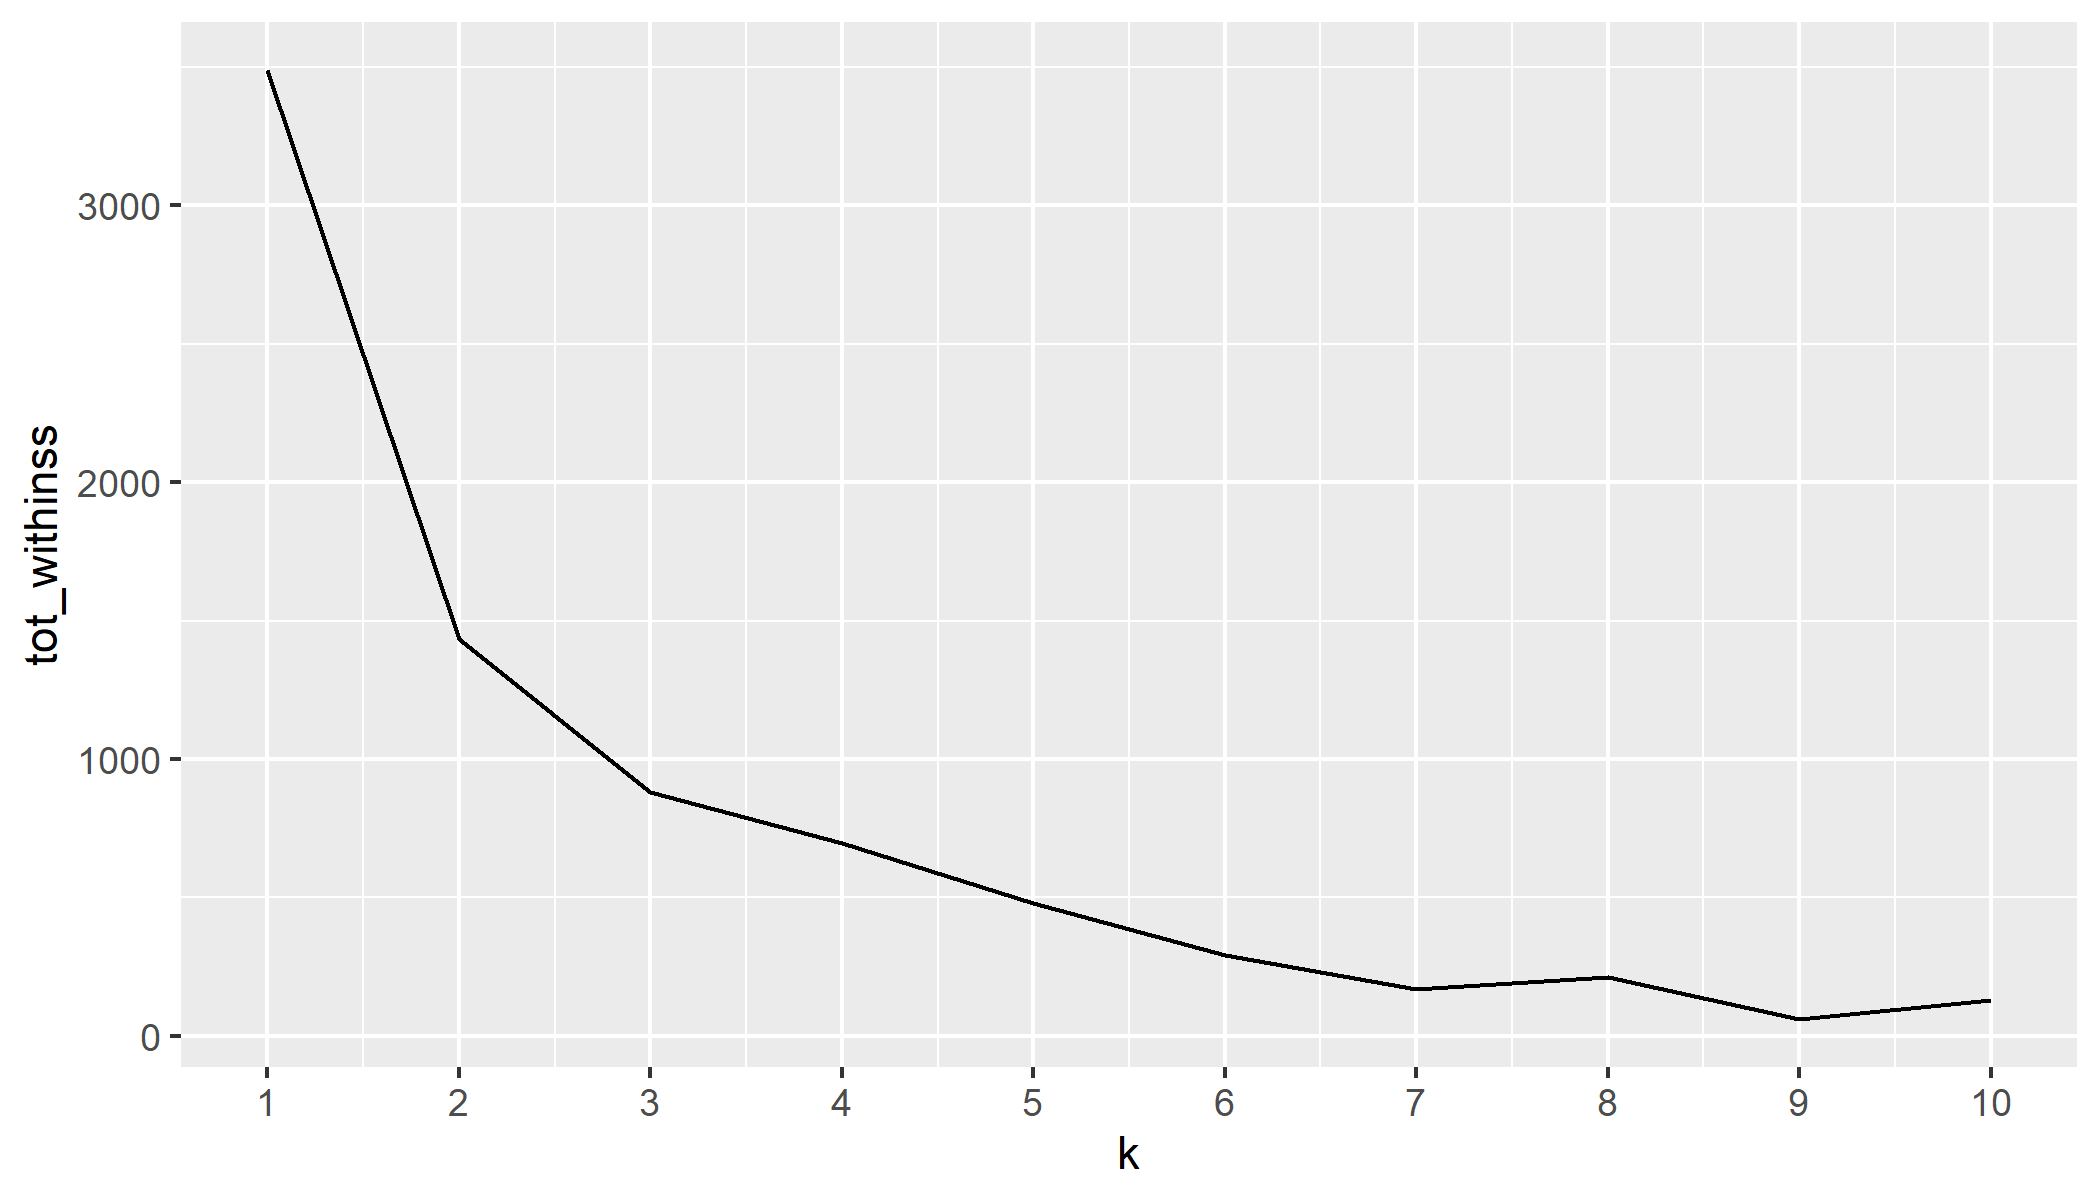
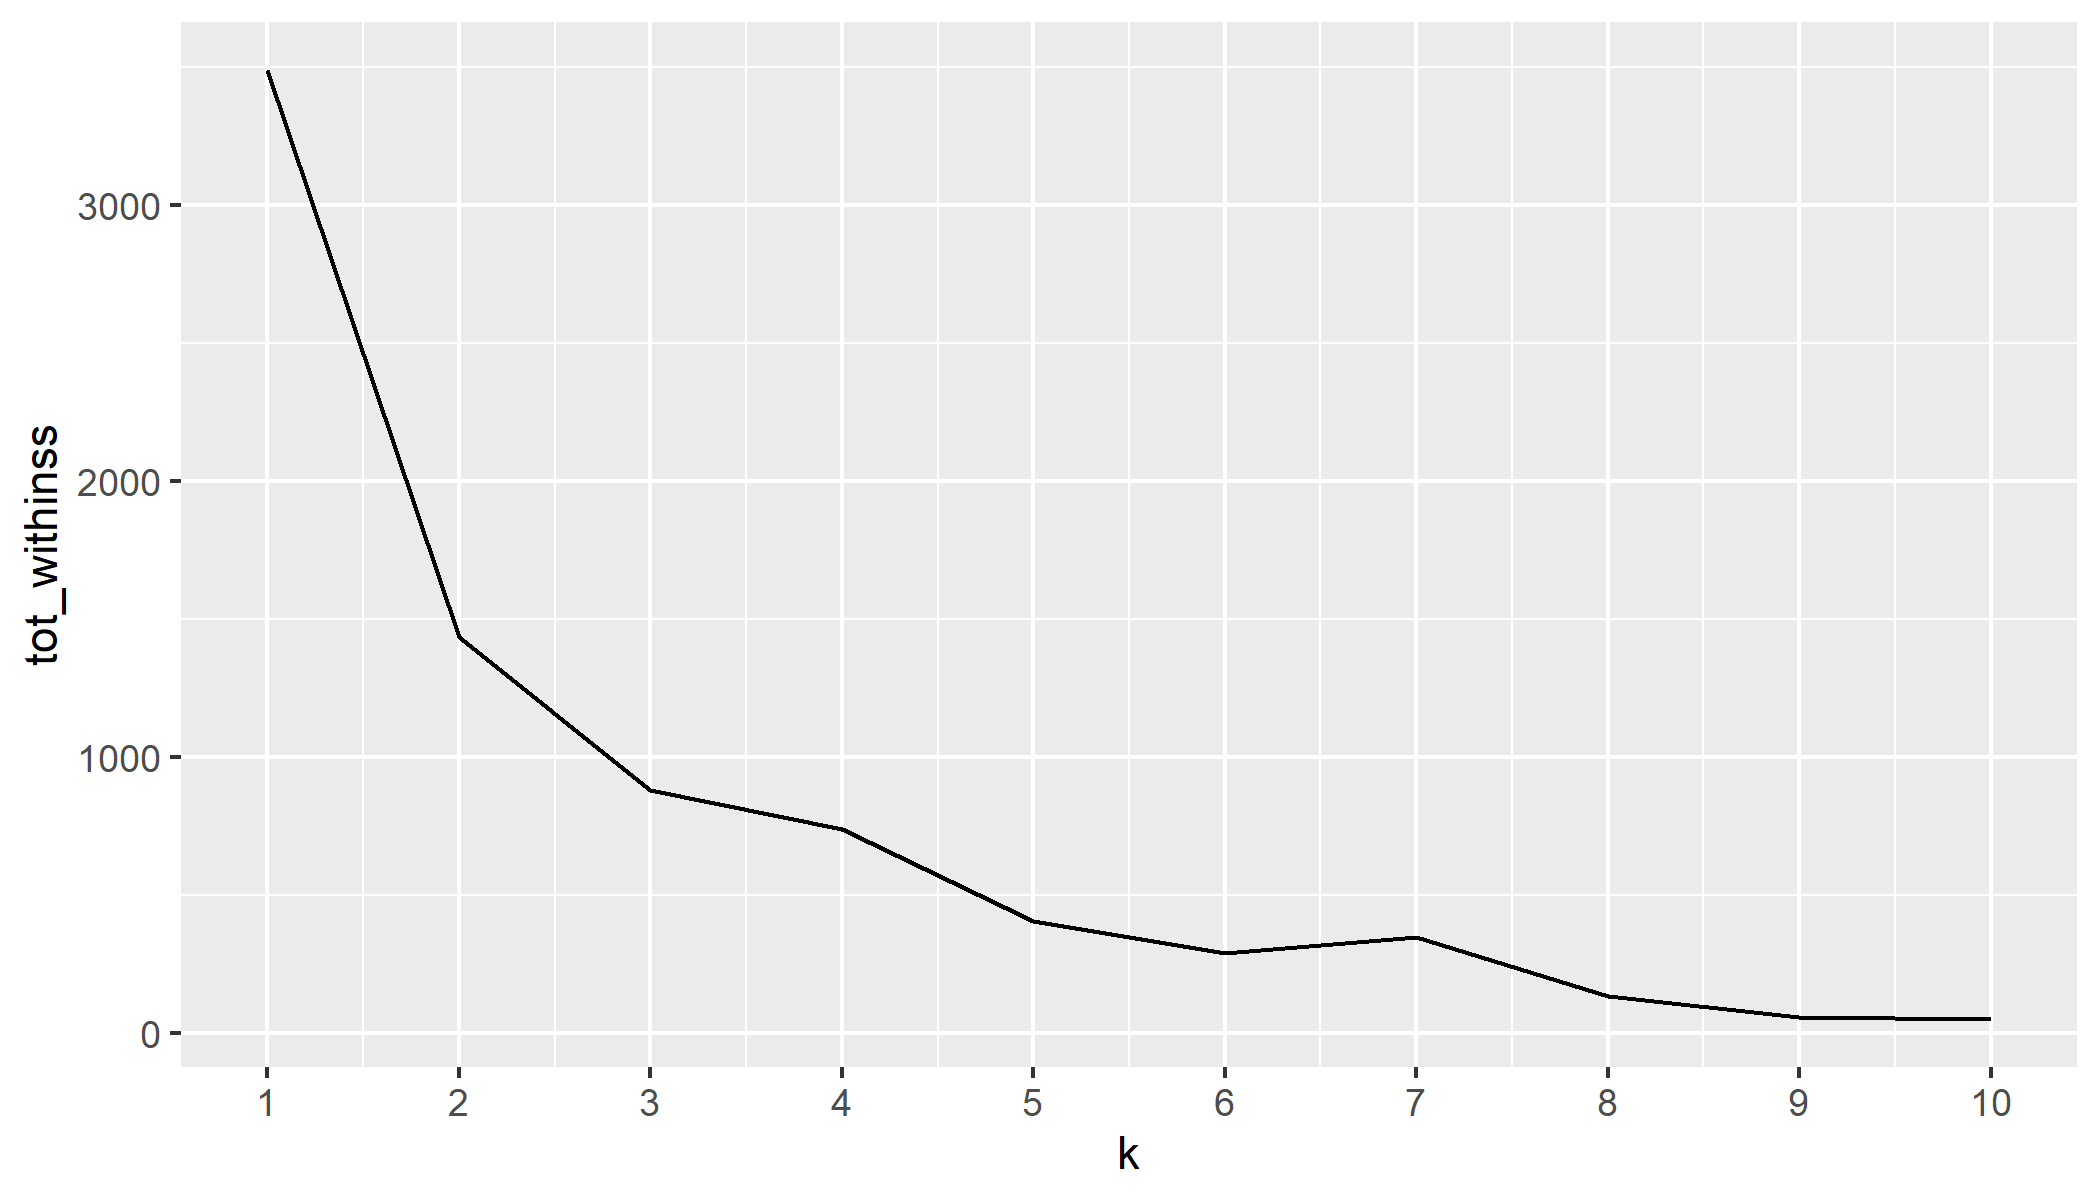
es soll jetzt besser gehen

diff --git a/Predavanja/06_KLASTER.html b/Predavanja/06_KLASTER.html
@@ -933,7 +933,7 @@ name: kars
 lineup &lt;- data.frame(X =c(-1,-2,8,7,-12,-15,-13,15,21,12,-25,26),
            Y = c(1,-3,6,-8,8,0,-10,16,2,-15,1,0))
 # Pregledaj podatke
-head(print(lineup),6) 
+print(lineup)
 ```
 
 ```
@@ -952,27 +952,14 @@ head(print(lineup),6)
 ## 12  26   0
 ```
 
-```
-##     X  Y
-## 1  -1  1
-## 2  -2 -3
-## 3   8  6
-## 4   7 -8
-## 5 -12  8
-## 6 -15  0
-```
-
-```r
-# Provedi K-means
-model &lt;- kmeans(lineup, centers = 2)
-```
-
 ---
 
 # Provedi kmeans()
 
 
 ```r
+# Provedi K-means
+model &lt;- kmeans(lineup, centers = 2)
 print(model$cluster) # Prikaži klastere
 ```
 
@@ -983,7 +970,7 @@ print(model$cluster) # Prikaži klastere
 
 ```r
 lineupKlasteri &lt;- mutate(lineup, cluster = model$cluster) # Prilagodi podatke
-head(print(lineupKlasteri),6) # Prikaži klastere i podatke
+print(lineupKlasteri) # Prikaži klastere i podatke
 ```
 
 ```
@@ -1002,55 +989,64 @@ head(print(lineupKlasteri),6) # Prikaži klastere i podatke
 ## 12  26   0       1
 ```
 
-```
-##     X  Y cluster
-## 1  -1  1       2
-## 2  -2 -3       2
-## 3   8  6       1
-## 4   7 -8       1
-## 5 -12  8       2
-## 6 -15  0       2
-```
-
---- 
+---
 
 # Odredi broj klastera
+
 &lt;br&gt;
 &lt;br&gt;
-&lt;img src="../Foto/klastK10.png" width="500px" style="display: block; margin: auto;" /&gt;
---- 
+&lt;br&gt;
+&lt;img src="../Foto/klastK10.png" width="600px" style="display: block; margin: auto;" /&gt;
+
+---
 
 # Odredi broj klastera
+
 &lt;br&gt;
 &lt;br&gt;
-&lt;img src="../Foto/klastK11.png" width="500px" style="display: block; margin: auto;" /&gt;
---- 
+&lt;br&gt;
+&lt;img src="../Foto/klastK11.png" width="600px" style="display: block; margin: auto;" /&gt;
+
+---
 
 # Odredi broj klastera
+
 &lt;br&gt;
 &lt;br&gt;
-&lt;img src="../Foto/klastK12.png" width="500px" style="display: block; margin: auto;" /&gt;
---- 
+&lt;br&gt;
+&lt;img src="../Foto/klastK12.png" width="600px" style="display: block; margin: auto;" /&gt;
+
+---
 
 # Odredi broj klastera
+
 &lt;br&gt;
 &lt;br&gt;
-&lt;img src="../Foto/klastK13.png" width="500px" style="display: block; margin: auto;" /&gt;
---- 
+&lt;br&gt;
+&lt;img src="../Foto/klastK13.png" width="600px" style="display: block; margin: auto;" /&gt;
+
+---
 
 # Odredi broj klastera
+
 &lt;br&gt;
 &lt;br&gt;
-&lt;img src="../Foto/klastK14.png" width="500px" style="display: block; margin: auto;" /&gt;
---- 
+&lt;br&gt;
+&lt;img src="../Foto/klastK14.png" width="600px" style="display: block; margin: auto;" /&gt;
+
+---
 
 # Odredi broj klastera
+
 &lt;br&gt;
 &lt;br&gt;
-&lt;img src="../Foto/klastK15.png" width="500px" style="display: block; margin: auto;" /&gt;
---- 
+&lt;br&gt;
+&lt;img src="../Foto/klastK15.png" width="600px" style="display: block; margin: auto;" /&gt;
+
+---
 
 # Odredi broj klastera
+
 &lt;br&gt;
 &lt;br&gt;
 
@@ -1062,9 +1058,11 @@ model$tot.withinss # Kvaliteta modela
 ```
 ## [1] 1434.5
 ```
---- 
+
+---
 
 # Odredi broj klastera
+
 &lt;br&gt;
 &lt;br&gt;
 
@@ -1086,13 +1084,13 @@ head(print(elbow_df),5)
 ## 1   1    3489.9167
 ## 2   2    1434.5000
 ## 3   3     881.2500
-## 4   4     696.8333
-## 5   5     481.6667
+## 4   4     740.4167
+## 5   5     406.0000
 ## 6   6     291.1667
-## 7   7     171.0000
-## 8   8     213.6667
+## 7   7     351.0000
+## 8   8     134.0000
 ## 9   9      60.0000
-## 10 10     130.6667
+## 10 10      51.5000
 ```
 
 ```
@@ -1100,12 +1098,14 @@ head(print(elbow_df),5)
 ## 1 1    3489.9167
 ## 2 2    1434.5000
 ## 3 3     881.2500
-## 4 4     696.8333
-## 5 5     481.6667
+## 4 4     740.4167
+## 5 5     406.0000
 ```
---- 
+
+---
 
 # Odredi broj klastera
+
 &lt;br&gt;
 &lt;br&gt;
 
@@ -1116,67 +1116,78 @@ scale_x_continuous(breaks = 1:10)
 ```
 
 &lt;img src="06_KLASTER_files/figure-html/unnamed-chunk-91-1.png" style="display: block; margin: auto;" /&gt;
---- 
+
+---
 
 # Silhouette analiza
+
 &lt;br&gt;
 &lt;br&gt;
 &lt;br&gt;
 &lt;br&gt;
 &lt;img src="../Foto/klastS1.png" width="500px" style="display: block; margin: auto;" /&gt;
 
---- 
+---
 
 # Silhouette analiza
+
 &lt;br&gt;
 &lt;br&gt;
 &lt;br&gt;
 &lt;br&gt;
 &lt;img src="../Foto/klastS2.png" width="500px" style="display: block; margin: auto;" /&gt;
 
---- 
+---
 
 # Silhouette analiza
+
 &lt;br&gt;
 &lt;br&gt;
 &lt;br&gt;
 &lt;br&gt;
 &lt;img src="../Foto/klastS3.png" width="500px" style="display: block; margin: auto;" /&gt;
---- 
+
+---
 
 # Silhouette analiza
+
 &lt;br&gt;
 &lt;br&gt;
 &lt;br&gt;
 &lt;br&gt;
 &lt;img src="../Foto/klastS4.png" width="500px" style="display: block; margin: auto;" /&gt;
---- 
+
+---
 
 # Silhouette analiza
+
 &lt;br&gt;
 &lt;br&gt;
 &lt;br&gt;
 &lt;br&gt;
 &lt;img src="../Foto/klastS5.png" width="500px" style="display: block; margin: auto;" /&gt;
 
---- 
+---
 
 # Silhouette analiza
+
 &lt;br&gt;
 &lt;br&gt;
 &lt;br&gt;
 &lt;br&gt;
 &lt;img src="../Foto/klastS6.png" width="500px" style="display: block; margin: auto;" /&gt;
 
---- 
+---
 
 # Silhouette analiza
+
 &lt;br&gt;
 &lt;br&gt;
 &lt;br&gt;
 &lt;br&gt;
 &lt;img src="../Foto/klastS7.png" width="500px" style="display: block; margin: auto;" /&gt;
---- 
+
+---
 
 # Silhouette analiza
 
@@ -1202,7 +1213,8 @@ pam_k3$silinfo$widths
 ## 5        3        1  0.359014657
 ## 7        3        1  0.207878188
 ```
---- 
+
+---
 
 # Silhouette analiza
 
@@ -1213,7 +1225,8 @@ plot(sil_plot)
 ```
 
 &lt;img src="06_KLASTER_files/figure-html/unnamed-chunk-100-1.png" style="display: block; margin: auto;" /&gt;
---- 
+
+---
 
 # Silhouette analiza
 
@@ -1231,7 +1244,8 @@ pam_k3$silinfo$avg.width
 #  0: Granično poklapanje između klastera
 # -1: Loše poklapanje
 ```
---- 
+
+---
 
 # Silhouette analiza
 
@@ -1270,7 +1284,7 @@ head(print(sil_df),5)
 ## 5 6 0.3436130
 ```
 
---- 
+---
 
 # Silhouette analiza
 
@@ -1282,8 +1296,6 @@ scale_x_continuous(breaks = 2:10)
 ```
 
 &lt;img src="06_KLASTER_files/figure-html/unnamed-chunk-103-1.png" style="display: block; margin: auto;" /&gt;
-
-
 
 ---
 
